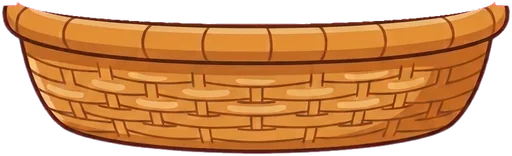
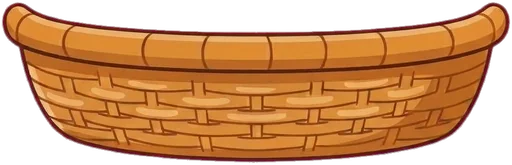
feat(rhythm): free phrases spell dictionary words; a finished front-only basket
Claude-Session: https://claude.ai/code/session_01MAZwqXWNx83oEW6jeXcxjm

diff --git a/src/game/beat.ts b/src/game/beat.ts
@@ -135,12 +135,37 @@ export function laneWeights(accuracy: readonly number[]): number[] {
 /** `n` items of `motif`, round and round. */
 const cycle = (motif: number[], n = PHRASE) => Array.from({ length: n }, (_, i) => motif[i % motif.length]);
 
+/** Dictionary words a free phrase needs before it is made of words. */
+const WORDS_MIN = 3;
+
+/**
+ * A free phrase made of dictionary words: whole words one after another that only use the lanes'
+ * letters now (`letters`, one per lane), the rest filled by `fill`; null with too few such words.
+ */
+function wordLanes(words: readonly string[], letters: readonly string[], rand: () => number, fill: (out: number[]) => number): number[] | null {
+  const fit = words.filter((w) => [...w].every((c) => letters.includes(c)));
+  if (fit.length < WORDS_MIN) return null;
+  const out: number[] = [];
+  const shortest = Math.min(...fit.map((w) => w.length));
+  while (PHRASE - out.length >= shortest) {
+    const left = fit.filter((w) => w.length <= PHRASE - out.length);
+    const word = left[Math.floor(rand() * left.length)];
+    for (const c of word) out.push(letters.indexOf(c));
+  }
+  while (out.length < PHRASE) out.push(fill(out));
+  return out;
+}
+
 /**
  * The lanes of one phrase's letters, from easy to harder: the two index fingers in turn, mirror
- * pairs of the hands, neighbours of one hand, then free (weighted, never the same letter twice in
- * a row unless `repeats`). A pattern the lanes cannot make is free too.
+ * pairs of the hands, neighbours of one hand, then free: dictionary words of the lanes' letters now
+ * (`words`, `letters`) when there are enough of them, else weighted letters, never the same twice
+ * in a row unless `repeats`. A pattern the lanes cannot make is free too.
  */
-export function phraseLanes(phrase: number, lanes: readonly Lane[], weights: readonly number[], rand: () => number, repeats: boolean): number[] {
+export function phraseLanes(
+  phrase: number, lanes: readonly Lane[], weights: readonly number[], rand: () => number, repeats: boolean,
+  words: readonly string[] = [], letters: readonly string[] = lanes.map((l) => l.letters[0]),
+): number[] {
   const left = lanes.map((_, i) => i).filter((i) => isLeft(lanes[i].finger));
   const right = lanes.map((_, i) => i).filter((i) => !isLeft(lanes[i].finger));
   if (phrase === 0 && left.length && right.length) return cycle([left[left.length - 1], right[0]]);
@@ -151,15 +176,18 @@ export function phraseLanes(phrase: number, lanes: readonly Lane[], weights: rea
     const l = left.slice(-2), r = right.slice(0, 2);
     return cycle([l[0], l[1], l[0], l[1], r[1], r[0], r[1], r[0]]);
   }
-  const out: number[] = [];
-  for (let k = 0; k < PHRASE; k++) {
-    const prev = out[k - 1];
+  const pick = (out: number[]) => {
+    const prev = out[out.length - 1];
     const open = weights.map((w, i) => (repeats || i !== prev || lanes.length < 2 ? w : 0));
     const sum = open.reduce((a, b) => a + b, 0);
     let x = rand() * sum, i = 0;
     while (i < open.length - 1 && (x -= open[i]) >= 0) i++;
-    out.push(i);
-  }
+    return i;
+  };
+  const fromWords = wordLanes(words, letters, rand, pick);
+  if (fromWords) return fromWords;
+  const out: number[] = [];
+  while (out.length < PHRASE) out.push(pick(out));
   return out;
 }
 
@@ -235,6 +263,8 @@ export interface SongSetup {
   tempo: number;
   rand: () => number;
   roundS?: number;
+  /** Dictionary words the free phrases are made of where the lanes' letters allow. */
+  words?: readonly string[];
 }
 
 /**
@@ -290,7 +320,8 @@ export class Song {
     const phrase = this.phrases.length;
     const T = beatOf(tempo), F = fallSeconds(T), bpl = beatsPerLetter(tempo);
     this.phrases.push({ tempo, w, start, first: this.drops.length });
-    const lanes = phraseLanes(phrase, this.s.lanes, this.s.weights, this.s.rand, start >= this.roundS / 2);
+    const letters = this.s.lanes.map((_, i) => laneLetter(this.s.lanes, this.s.changes, i, Math.max(now, start - F)));
+    const lanes = phraseLanes(phrase, this.s.lanes, this.s.weights, this.s.rand, start >= this.roundS / 2, this.s.words, letters);
     let landed = 0;
     for (let i = 0; i < PHRASE; i++) {
       const land = start + i * T;

diff --git a/src/game/modes/rhythm.ts b/src/game/modes/rhythm.ts
@@ -11,6 +11,7 @@ import { fingerFor } from '../../keyboard/layouts';
 import { recentAccuracy } from '../../learning/lessons';
 import { localDate, recentTyping } from '../../learning/stats';
 import { FINGER_COLORS } from '../../ui/finger-colors';
+import { filterWords, isBlocked } from '../../words/words';
 import { accuracyFill, fillRing, roundSvg, roundTextSvg } from '../../ui/hud';
 import { h } from '../../ui/dom';
 import { tip } from '../../ui/tooltip';
@@ -192,7 +193,10 @@ export class RhythmMode extends HeroMode {
     this.changes = planChanges(this.lanes, storyOf(L.def.world).tier + 1, roundS);
     const tempo = startTempo(p.progress.rhythm[L.def.world], recentTyping(p, 14).cpm, localDate());
     const weights = laneWeights(this.lanes.map((l) => recentAccuracy(p.stats.keys[l.letters[0]])));
-    this.song = new Song({ lanes: this.lanes, changes: this.changes, weights, tempo, rand: () => L.rng.next(), roundS });
+    // Words of the lanes' letters only, from the child's word language.
+    const all = new Set(this.lanes.flatMap((l) => l.letters));
+    const words = filterWords(app.words[p.settings.wordLang] ?? [], all, [2, 6]).filter((w) => !isBlocked(w));
+    this.song = new Song({ lanes: this.lanes, changes: this.changes, weights, tempo, rand: () => L.rng.next(), roundS, words });
     this.target = rhythmTarget(L.def.world);
     this.flash = this.lanes.map(() => -9);
     this.basket = { from: this.L.vw / 2, lane: null, at: -1, end: -1 };

diff --git a/src/game/beat.test.ts b/src/game/beat.test.ts
@@ -131,6 +131,21 @@ describe('song', () => {
     expect(lanes(3)).toHaveLength(PHRASE);
   });
 
+  it('free phrases are dictionary words of the lanes\' letters when there are enough of them', () => {
+    const lanes = laneSetup(['a', 's', 'd', 'f', 'j', 'k', 'l'], finger);
+    const letters = lanes.map((l) => l.letters[0]);
+    const spell = (out: number[]) => out.map((i) => letters[i]).join('');
+    const rng = new Rng(5);
+    const free = spell(phraseLanes(5, lanes, lanes.map(() => 1), () => rng.next(), false, ['sad', 'las', 'kal', 'zub'], letters));
+    expect(free).toHaveLength(PHRASE);
+    // Only the words the letters make: never "zub"; a short tail fills with letters.
+    expect(free.slice(0, 15)).toMatch(/^(sad|las|kal)+$/);
+    // Too few words: letters as before.
+    const few = spell(phraseLanes(5, lanes, lanes.map(() => 1), () => rng.next(), false, ['sad', 'zub'], letters));
+    expect(few).toHaveLength(PHRASE);
+    expect(few).not.toMatch(/^(sad)+/);
+  });
+
   it('free phrases never repeat a letter right away in the first half of the round', () => {
     const rng = new Rng(7);
     const free = phraseLanes(5, world1, [1, 1.5, 1, 1], () => rng.next(), false);

diff --git a/src/game/modes/rhythm.test.ts b/src/game/modes/rhythm.test.ts
@@ -10,7 +10,7 @@ vi.mock('../../app/app', async () => {
   p.progress.unlockedKeys = ['f', 'j', ' ', 'd', 'k'];
   // Four ready letters: their last presses all right.
   for (const k of ['f', 'j', 'd', 'k']) p.stats.keys[k] = { presses: 40, errors: 0, recent: Array(40).fill(300), days: [] } as never;
-  return { app: { profile: p }, pickLine: () => '', profileLayout: (x: typeof p) => LAYOUTS[x.layout] };
+  return { app: { profile: p, words: { sk: [], en: [] } }, pickLine: () => '', profileLayout: (x: typeof p) => LAYOUTS[x.layout] };
 });
 vi.mock('../../audio/audio', () => ({ audio: { beatOut: () => null } }));
 vi.mock('../../ui/dom', async (real) => ({ ...(await real<object>()), h: () => ({ setAttribute: () => {}, className: '', innerHTML: '' }) }));

diff --git a/assets-src/PROMPTS.md b/assets-src/PROMPTS.md
@@ -1350,11 +1350,14 @@ empty and the basket's letters are only toy shapes.
 The basket is one empty picture: the full basket first, then a follow-up in its chat that removes
 all letters ("Same picture, exactly the same basket at exactly the same size and position. Only
 remove the letters: the basket is empty, its empty inside shows."). The basket is flat and shallow
-like a low tray, with no handles. The game keeps only its front: `.old/obj-rhythm-basket-with-back.jpg`
-is the empty picture, and the back rim and the inside above the lower arc of the inner opening are
-painted magenta by a small sharp script (centre 512, 449, half-axes 388 x 39 px, the rim's round ends
-cut at y 455). Letters sunk into the basket (only their upper half showing) could not be drawn: five
-tries of a redraw with the full basket attached only changed the colours.
+like a low tray, with no handles. The game keeps only its front, so a letter drops behind the rim:
+`.old/obj-rhythm-basket-with-back.jpg` is the empty picture; its back rim and inside were painted magenta
+(a rough cut along the lower arc of the inner opening), and a new chat with that cut picture attached
+finished the edge: "Redraw the attached picture exactly the same ... its upper edge was cut off roughly,
+so finish it nicely: a clean, smooth, rounded upper edge ... round off the two ends of the rim. Do NOT
+add anything behind or above it." The rough cut alone looked bad in the game. A lower point of view,
+straight at the rim, would hide the back by itself (an idea for a later redraw). Letters sunk into the basket (only their upper half showing) could
+not be drawn: five tries of a redraw with the full basket attached only changed the colours.
 `obj-rhythm-basket-full` (the end card) is a new chat with the empty basket attached: the same basket
 full of a heap of letters.
 The three clouds are compact, so a cloud drawn only a little wider than its lane stays off the

diff --git a/.specify/game/rhythm.md b/.specify/game/rhythm.md
@@ -65,9 +65,11 @@
   band grows upwards, and adds one phrase to the round, at most a third of it in all (a minute). A phrase that steps
   up narrows it again by 0.05, back to the start.
 - **Order of the letters:** first the two index fingers in turn, then mirror pairs of the hands (d k
-  f j), then neighbours of one hand, then free, the letters with the lowest recent accuracy (a third of
-  them, at most three) a little more often; the same letter twice in a row only in the second half of
-  the round.
+  f j), then neighbours of one hand, then free. A free phrase is made of **dictionary words** (two to six
+  letters, from the child's word language) that use only the lanes' letters at that moment, whole words
+  one after another, when at least three such words exist; otherwise, and for a tail no word fits, single
+  letters, the ones with the lowest recent accuracy (a third of them, at most three) a little more often,
+  the same letter twice in a row only in the second half of the round.
 - **Changing letters** (story 2 and 3 worlds, and story 1's worlds with more letters per finger): a
   lane's letter changes once a round in the dragon story, twice in the robot story and three times in
   the fairy story, to another ready letter of the same finger: the cloud dissolves and a new cloud
